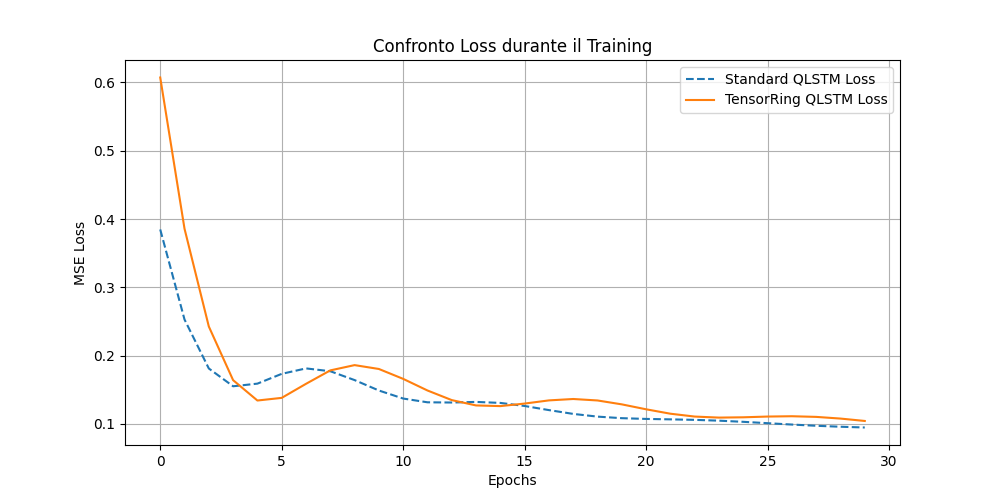
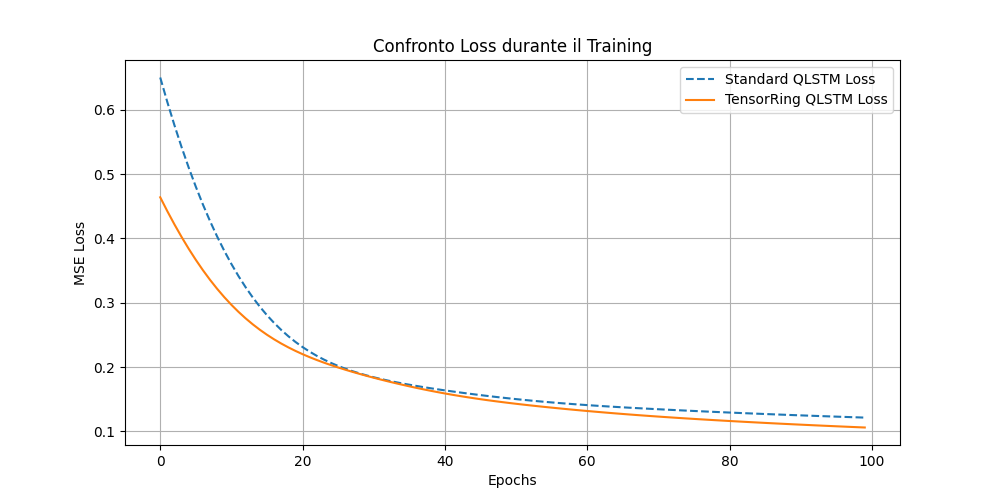
Correct attention

diff --git a/esame/hybridArchitecture.py b/esame/hybridArchitecture.py
@@ -4,45 +4,44 @@ import torch.nn.functional as F
 from QLSTM import QLSTM
 from QLSTMTensorRing import QLSTMTensorRing
 
-class HybridArchitecture(nn.Module):
+class AttentionLayer(nn.Module):
     """
-    Classical Attention Mechanism.
-    Updated to handle dynamic input dimensions (QLSTM state + Raw Covariates).
+    Hybrid Architecture using Vaswani Multi-Head Attention.
+    This layer applies multi-head self-attention to input sequences and extracts
+    a context vector from the last time step.
     """
-    def __init__(self, input_dim):
-        super(HybridArchitecture, self).__init__()
-        # The attention layer maps the combined input (Hidden + Covariates) to a score.
-        self.W_q = nn.Linear(input_dim, input_dim)
-        self.v = nn.Linear(input_dim, 1, bias=False)
+    def __init__(self, input_dim, num_heads=1):
+        super(AttentionLayer, self).__init__()
+        
+        # Initialize multi-head attention module
+        self.mha = nn.MultiheadAttention(embed_dim=input_dim, 
+                                         num_heads=num_heads, 
+                                         batch_first=True)
+        
+        # Initialize layer normalization
+        self.norm = nn.LayerNorm(input_dim)
 
     def forward(self, x):
         """
-        :param x: Combined sequence with shape (Batch, Seq_Len, Hidden_Dim + Covariates)
+        :param x: Input tensor (Batch, Seq_Len, Features)
         :return: context_vector, attention_weights
         """
-        # Score calculation: e_t = v * tanh(W * x_t)
-        energy = torch.tanh(self.W_q(x)) 
-        scores = self.v(energy) # Shape: (Batch, Seq_Len, 1)
+        # Apply multi-head attention to the input
+        attn_output, attn_weights = self.mha(query=x, key=x, value=x)
         
-        # Softmax over the time dimension
-        attention_weights = F.softmax(scores, dim=1)
+        # Apply residual connection and layer normalization
+        x = self.norm(x + attn_output)
+        # Extract the context vector from the last time step
+        context_vector = x[:, -1, :] 
         
-        # Context vector is the weighted sum of the inputs
-        context_vector = torch.sum(attention_weights * x, dim=1)
-        
-        return context_vector, attention_weights
+        return context_vector, attn_weights
 
 
 class HybridQuantumAttentionModel(nn.Module):
     """
-    Hybrid Architecture with Direct Covariate Pass-Through.
-    
-    Structure:
-    1. Main feature (Target) -> Quantum LSTM
-    2. Other features (Covariates) -> DIRECTLY to Concatenation
-    3. Concatenation (Quantum State + Raw Covariates)
-    4. Classical Attention
-    5. Regression Head
+    Hybrid Architecture combining Quantum LSTM and Attention Mechanism.
+    This model processes time series data by using a quantum LSTM for the main feature
+    and incorporating covariates through a multi-head attention layer for prediction.
     """
     def __init__(self, 
                  total_input_features, 
@@ -50,13 +49,14 @@ class HybridQuantumAttentionModel(nn.Module):
                  n_qubits=4, 
                  n_qlayers=1, 
                  model_type='QLSTM',
-                 backend='default.qubit'):
+                 backend='default.qubit',
+                 num_heads=1):
         super(HybridQuantumAttentionModel, self).__init__()
         
         self.hidden_dim = hidden_dim
         self.model_type = model_type
         
-        # --- Branch A: Quantum LSTM for the Main Feature ---
+        # Initialize Quantum LSTM for the main feature (target)
         if model_type == 'TensorRing':
             self.q_lstm = QLSTMTensorRing(
                 input_size=1,
@@ -76,44 +76,44 @@ class HybridQuantumAttentionModel(nn.Module):
                 backend=backend
             )
 
-        # Count covariates
+        # Calculate number of covariates (additional features)
         self.num_covariates = total_input_features - 1
         
-        # --- Dimensions for Attention ---
-        # The input to the attention mechanism is the concatenation of:
-        # 1. QLSTM hidden state (hidden_dim)
-        # 2. Raw covariate features (num_covariates)
+        # Calculate input dimension for attention layer
         self.attention_input_dim = hidden_dim + self.num_covariates
         
-        self.attention = HybridArchitecture(self.attention_input_dim)
+
+        if self.attention_input_dim % num_heads != 0:
+            print(f"Warning: attention_input_dim {self.attention_input_dim} not divisible by num_heads {num_heads}. Setting num_heads=1.")
+            num_heads = 1
         
-        # --- Prediction Head ---
+        # Initialize attention layer
+        self.attention = AttentionLayer(self.attention_input_dim, num_heads=num_heads)
+        
+        # Initialize regression head for final prediction
         self.regressor = nn.Linear(self.attention_input_dim, 1)
 
     def forward(self, x):
         """
         :param x: Input tensor (Batch, Seq, Total_Features)
         """
-        # 1. Split the data
-        x_target = x[:, :, 0:1] # The univariate target sequence
+        # 1. Split the input data into target and covariates
+        x_target = x[:, :, 0:1]  # Extract target feature (first column)
         
-        # 2. Process Target with Quantum LSTM
-        q_out, _ = self.q_lstm(x_target) # Shape: (Batch, Seq, Hidden_Dim)
+        # 2. Process target feature with Quantum LSTM
+        q_out, _ = self.q_lstm(x_target)  # Output: (Batch, Seq, Hidden_Dim)
         
         combined_features = q_out
 
-        # 3. Direct Pass of Covariates (Concatenation)
+        # 3. Concatenate covariates directly if present
         if self.num_covariates > 0:
-            x_covariates = x[:, :, 1:] # Shape: (Batch, Seq, Num_Covariates)
-            
-            # Concatenate along the feature dimension (dim=2)
-            # Result Shape: (Batch, Seq, Hidden_Dim + Num_Covariates)
-            combined_features = torch.cat((q_out, x_covariates), dim=2)
+            x_covariates = x[:, :, 1:]  # Extract covariates (remaining columns)
+            combined_features = torch.cat((q_out, x_covariates), dim=2)  # Concatenate along feature dimension
 
-        # 4. Apply Attention on the Combined Features
+        # 4. Apply attention mechanism (Vaswani multi-head attention)
         context_vector, attn_weights = self.attention(combined_features)
         
-        # 5. Final Prediction
+        # 5. Generate final prediction using regression head
         prediction = self.regressor(context_vector)
         
-        return prediction.flatten()
+        return prediction.flatten()  # Return flattened predictions

diff --git a/esame/experiment.py b/esame/experiment.py
@@ -12,7 +12,7 @@ def train_model(model, X_train, y_train, epochs=20, lr=0.01, name="Model"):
     Funzione generica per addestrare un modello PyTorch
     """
     criterion = nn.MSELoss()
-    optimizer = optim.Adam(model.parameters(), lr=lr)
+    optimizer = optim.AdamW(model.parameters(), lr=lr)
     
     losses = []
     
@@ -55,8 +55,8 @@ total_features = X_train.shape[2] # Target + Covariate
 hidden_dim = 4
 n_qubits = 4
 n_qlayers = 1
-epochs = 1000
-learning_rate = 0.05
+epochs = 100
+learning_rate = 0.001
 
 # --- 2. TRAINING MODELLO 1: STANDARD QLSTM ---
 model_standard = HybridQuantumAttentionModel(
